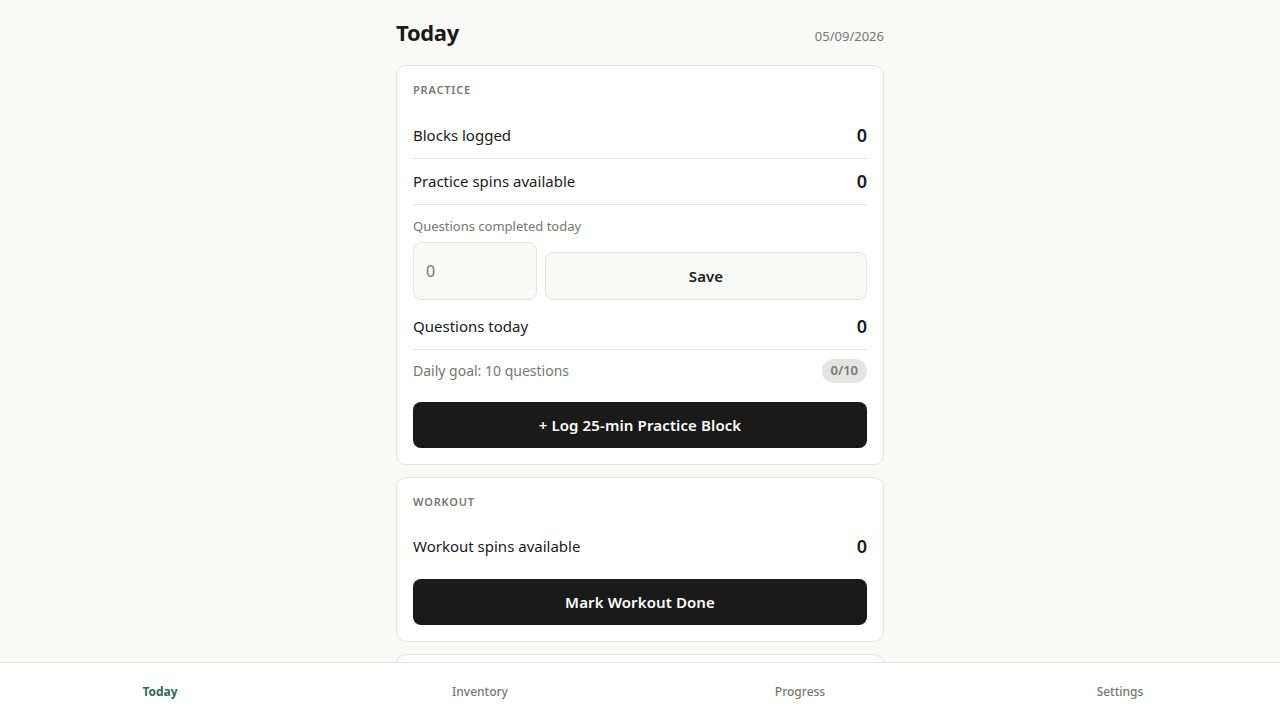
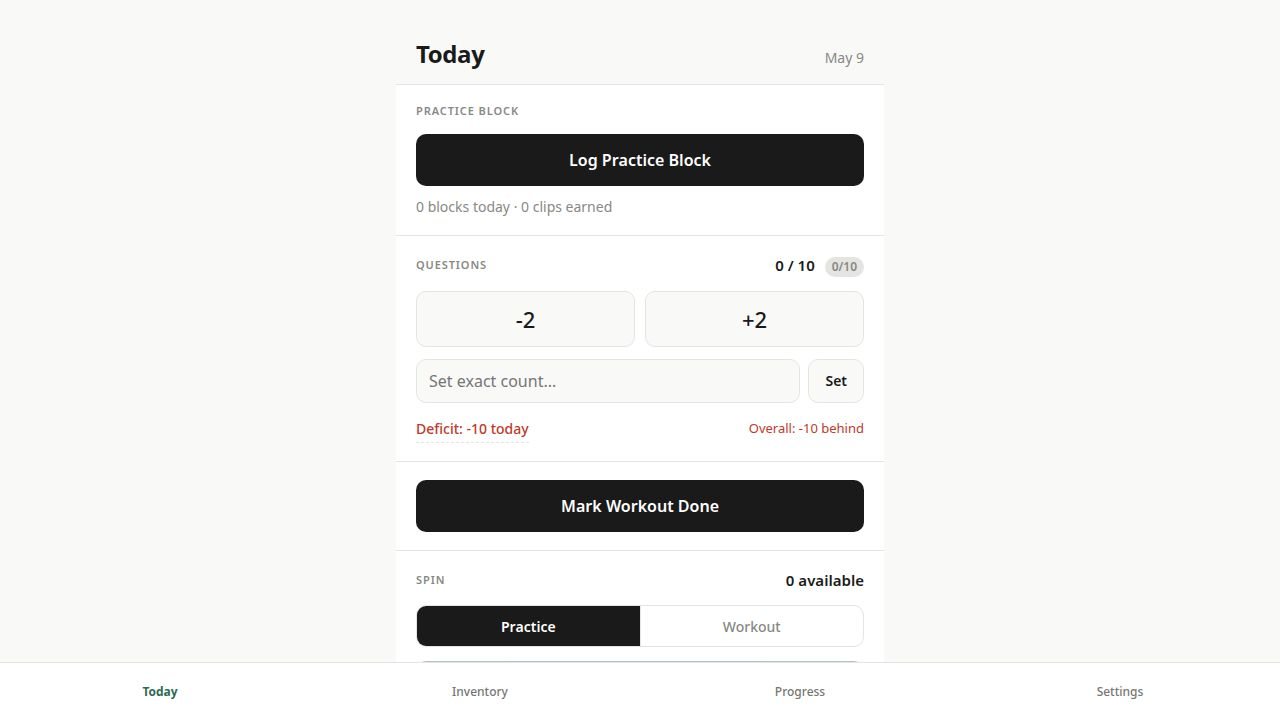
Improve deficit tracking with detailed progress and planning insights
Rewrite `showDeficitDetail` function in `app.js` and update CSS in `index.html` to implement a comprehensive deficit tracking modal with summary cards, rolling pace metrics, catch-up recommendations, and a daily delta chart.

Replit-Commit-Author: Agent
Replit-Commit-Session-Id: 7faa7122-3c13-44b8-ae51-421a0cd3ecc9
Replit-Commit-Checkpoint-Type: full_checkpoint
Replit-Commit-Event-Id: 111deaef-ce2c-4dcf-a37c-7e493fc32b39
Replit-Commit-Screenshot-Url: https://storage.googleapis.com/screenshot-production-us-central1/2513a23a-9fae-4b98-ac75-e07072cf8723/7faa7122-3c13-44b8-ae51-421a0cd3ecc9/ZLnE67l
Replit-Helium-Checkpoint-Created: true

diff --git a/artifacts/habit-wheel/src/app.js b/artifacts/habit-wheel/src/app.js
@@ -540,84 +540,170 @@ function deleteBankedReward(id) {
 
 function showDeficitDetail() {
   const body = document.getElementById('deficit-body');
-  const expected = expectedQuestions();
-  const total = state.totalQuestions;
-  const cd = total - expected;
-  const remaining = Math.max(0, 400 - total);
-  const dn = dayNumber();
-  const daysLeft = Math.max(0, 40 - dn);
-  const needed = daysLeft > 0 ? (remaining / daysLeft).toFixed(1) : '—';
 
-  // Stats grid
-  const cdClass = cd < 0 ? 'neg' : cd > 0 ? 'pos' : '';
-  body.innerHTML = `
-    <div class="deficit-stats-grid">
-      <div class="dstat-box">
-        <div class="dstat-val">${total}</div>
-        <div class="dstat-label">Completed</div>
-      </div>
-      <div class="dstat-box">
-        <div class="dstat-val">${expected}</div>
-        <div class="dstat-label">Expected by today</div>
-      </div>
-      <div class="dstat-box">
-        <div class="dstat-val ${cdClass}">${cd >= 0 ? '+' : ''}${cd}</div>
-        <div class="dstat-label">Cumulative delta</div>
-      </div>
-      <div class="dstat-box">
-        <div class="dstat-val">${remaining}</div>
-        <div class="dstat-label">Remaining</div>
-      </div>
-      <div class="dstat-box">
-        <div class="dstat-val">${daysLeft}</div>
-        <div class="dstat-label">Days left</div>
-      </div>
-      <div class="dstat-box">
-        <div class="dstat-val">${needed}</div>
-        <div class="dstat-label">Needed / day</div>
+  const dn           = dayNumber();
+  const total        = state.totalQuestions;
+  const expected     = expectedQuestions();
+  const cd           = total - expected;
+  const remaining    = Math.max(0, 400 - total);
+  const daysFromTmrw = Math.max(0, 40 - dn);         // days after today
+  const daysInclToday = Math.max(1, 40 - dn + 1);    // days including today
+  const reqFromTmrw  = daysFromTmrw > 0 ? remaining / daysFromTmrw : null;
+  const cdClass      = cd < 0 ? 'neg' : cd > 0 ? 'pos' : '';
+  const cdStr        = (cd > 0 ? '+' : '') + cd;
+  const needStr      = reqFromTmrw !== null ? reqFromTmrw.toFixed(1) : '—';
+
+  // ── Rolling-average helper
+  function rollingAvg(n) {
+    const days = state.dailyHistory.slice(-n);
+    if (!days.length) return null;
+    return days.reduce((a, d) => a + d.questions, 0) / days.length;
+  }
+  const avg3 = rollingAvg(3);
+  const avg7 = rollingAvg(7);
+
+  function paceLabel(avg) {
+    if (avg === null) return '';
+    if (avg >= 10)  return 'On pace';
+    if (avg >=  8)  return 'Slightly behind';
+    return 'Behind pace';
+  }
+
+  // ── 1. Summary cards
+  let html = `
+    <div class="dc-section">
+      <div class="dc-label">Summary</div>
+      <div class="dc-grid">
+        <div class="dc-card">
+          <div class="dc-card-val">${total}</div>
+          <div class="dc-card-key">Completed</div>
+        </div>
+        <div class="dc-card">
+          <div class="dc-card-val">${expected}</div>
+          <div class="dc-card-key">Expected by today</div>
+        </div>
+        <div class="dc-card">
+          <div class="dc-card-val ${cdClass}">${cdStr}</div>
+          <div class="dc-card-key">Net delta</div>
+        </div>
+        <div class="dc-card">
+          <div class="dc-card-val">${remaining}</div>
+          <div class="dc-card-key">Remaining</div>
+        </div>
+        <div class="dc-card">
+          <div class="dc-card-val">${daysFromTmrw}</div>
+          <div class="dc-card-key">Days left</div>
+        </div>
+        <div class="dc-card">
+          <div class="dc-card-val">${needStr}</div>
+          <div class="dc-card-key">Needed / day</div>
+        </div>
       </div>
     </div>
   `;
 
-  // Build chart from dailyHistory + today
+  // ── 2. Rolling pace
+  const last3Counts = state.dailyHistory.slice(-3).map(d => d.questions).join(', ');
+  html += `
+    <div class="dc-section">
+      <div class="dc-label">Rolling pace</div>
+      <div class="dc-pace-row">
+        <div class="dc-pace-left">
+          <div>Last 3 days</div>
+          ${avg3 !== null && last3Counts ? `<div class="dc-pace-sub">${last3Counts} questions</div>` : ''}
+        </div>
+        <div class="dc-pace-val">${avg3 !== null ? avg3.toFixed(1) + '/day' : '—'}</div>
+      </div>
+      <div class="dc-pace-row">
+        <div class="dc-pace-left">
+          <div>Last 7 days</div>
+          ${avg7 !== null ? `<div class="dc-pace-sub">${paceLabel(avg7)}</div>` : ''}
+        </div>
+        <div class="dc-pace-val">${avg7 !== null ? avg7.toFixed(1) + '/day' : '—'}</div>
+      </div>
+      <div class="dc-pace-row">
+        <div class="dc-pace-left">Today so far</div>
+        <div class="dc-pace-val">${state.questionsToday} questions</div>
+      </div>
+    </div>
+  `;
+
+  // ── 3. Recommendation
+  let recHtml = '';
+  if (remaining === 0) {
+    recHtml = `<div class="dc-rec good">You've completed all 400 questions. Goal achieved!</div>`;
+  } else if (daysFromTmrw === 0) {
+    recHtml = `<div class="dc-rec">Last day — ${remaining} question${remaining !== 1 ? 's' : ''} left to reach 400.</div>`;
+  } else if (cd >= 0) {
+    const minPossible = (remaining / daysInclToday).toFixed(1);
+    recHtml = `
+      <div class="dc-rec good">
+        You're ahead by <strong>${cd} question${cd !== 1 ? 's' : ''}</strong>.
+        You could do as few as <strong>${minPossible}/day</strong> (including today) and still finish on time.
+      </div>
+    `;
+  } else {
+    if (reqFromTmrw !== null && reqFromTmrw > 16) {
+      recHtml = `
+        <div class="dc-rec warn">
+          To finish on time you'd need <strong>${needStr} questions/day</strong> from tomorrow — that pace is high.
+          Consider adding a catch-up day or extending your deadline by a few days.
+        </div>
+      `;
+    } else {
+      recHtml = `
+        <div class="dc-rec">
+          To finish on time, average <strong>${needStr} questions/day</strong> from tomorrow onward.
+        </div>
+      `;
+    }
+  }
+  html += `
+    <div class="dc-section">
+      <div class="dc-label">Recommendation</div>
+      ${recHtml}
+    </div>
+  `;
+
+  // ── 4. Daily chart (last 20 days including today)
   const allDays = [
     ...state.dailyHistory,
     { date: todayStr(), questions: state.questionsToday },
-  ].slice(-20); // last 20 days
+  ].slice(-20);
 
-  if (allDays.length === 0) {
-    body.innerHTML += `<p class="chart-empty">No history yet. Come back after a few days.</p>`;
+  html += `<div class="dc-section"><div class="dc-label">Daily delta — goal 10/day</div>`;
+
+  if (!allDays.length) {
+    html += `<p class="dc-chart-empty">No data yet. Check back after logging a few days.</p>`;
   } else {
     const deltas = allDays.map(d => ({ date: d.date, delta: d.questions - 10 }));
     const maxAbs = Math.max(1, ...deltas.map(d => Math.abs(d.delta)));
 
-    let chartHtml = `<div class="chart-section-label">Daily question delta (goal: 10/day)</div>`;
     for (const { date, delta } of deltas) {
-      const pct = Math.min(48, (Math.abs(delta) / maxAbs) * 48);
-      const valClass = delta < 0 ? 'neg' : delta > 0 ? 'pos' : 'zero';
-      const valStr = delta === 0 ? '0' : delta > 0 ? `+${delta}` : `${delta}`;
+      const pct     = Math.min(48, (Math.abs(delta) / maxAbs) * 48);
+      const vcls    = delta > 0 ? 'pos' : delta < 0 ? 'neg' : 'zero';
+      const valStr  = delta > 0 ? `+${delta}` : `${delta}`;
+      const barHtml = delta > 0
+        ? `<div class="dc-chart-bar dc-chart-pos" style="width:${pct}%"></div>`
+        : delta < 0
+          ? `<div class="dc-chart-bar dc-chart-neg" style="width:${pct}%"></div>`
+          : '';
 
-      let barHtml = '';
-      if (delta > 0) {
-        barHtml = `<div class="chart-bar chart-bar-pos" style="width:${pct}%"></div>`;
-      } else if (delta < 0) {
-        barHtml = `<div class="chart-bar chart-bar-neg" style="width:${pct}%"></div>`;
-      }
-
-      chartHtml += `
-        <div class="chart-row">
-          <span class="chart-date">${fmtDate(date)}</span>
-          <div class="chart-axis-wrap">
-            <div class="chart-center"></div>
+      html += `
+        <div class="dc-chart-row">
+          <span class="dc-chart-date">${fmtDate(date)}</span>
+          <div class="dc-chart-wrap">
+            <div class="dc-chart-axis"></div>
             ${barHtml}
           </div>
-          <span class="chart-val ${valClass}">${valStr}</span>
+          <span class="dc-chart-val ${vcls}">${valStr}</span>
         </div>
       `;
     }
-    body.innerHTML += chartHtml;
   }
 
+  html += `</div>`;
+  body.innerHTML = html;
   document.getElementById('deficit-overlay').classList.remove('hidden');
 }
 

diff --git a/artifacts/habit-wheel/index.html b/artifacts/habit-wheel/index.html
@@ -466,48 +466,69 @@
     .modal-actions { display: flex; gap: 8px; }
     .modal-actions .action-btn { flex: 1; }
 
-    /* DEFICIT CHART PANEL */
-    .deficit-stats-grid {
-      display: grid;
-      grid-template-columns: 1fr 1fr 1fr;
-      gap: 8px;
-      margin-bottom: 20px;
-    }
-    .dstat-box {
-      background: var(--bg);
-      border-radius: 8px;
-      padding: 10px 12px;
-    }
-    .dstat-val { font-size: 17px; font-weight: 700; color: var(--text); }
-    .dstat-val.neg { color: var(--danger); }
-    .dstat-val.pos { color: var(--accent); }
-    .dstat-label { font-size: 11px; color: var(--muted); margin-top: 2px; }
-
-    .chart-section-label {
+    /* DEFICIT / TRACKING MODAL */
+    .dc-section { margin-bottom: 22px; }
+    .dc-section:last-child { margin-bottom: 0; }
+    .dc-label {
       font-size: 11px;
       font-weight: 600;
       text-transform: uppercase;
       letter-spacing: 0.8px;
       color: var(--muted);
-      margin-bottom: 12px;
+      margin-bottom: 10px;
     }
-    .chart-row {
+    .dc-grid {
+      display: grid;
+      grid-template-columns: 1fr 1fr 1fr;
+      gap: 7px;
+    }
+    .dc-card {
+      background: var(--bg);
+      border-radius: 8px;
+      padding: 10px 11px;
+    }
+    .dc-card-val { font-size: 17px; font-weight: 700; color: var(--text); line-height: 1.1; }
+    .dc-card-val.neg { color: var(--danger); }
+    .dc-card-val.pos { color: var(--accent); }
+    .dc-card-key { font-size: 10px; color: var(--muted); margin-top: 3px; line-height: 1.3; }
+
+    .dc-pace-row {
       display: flex;
+      justify-content: space-between;
       align-items: center;
-      gap: 8px;
-      margin-bottom: 6px;
+      padding: 10px 0;
+      border-bottom: 1px solid var(--border);
+      font-size: 14px;
+      gap: 12px;
     }
-    .chart-date { font-size: 11px; color: var(--muted); width: 40px; flex-shrink: 0; text-align: right; }
-    .chart-axis-wrap { flex: 1; height: 18px; position: relative; }
-    .chart-center { position: absolute; left: 50%; top: 0; bottom: 0; width: 1px; background: var(--border); }
-    .chart-bar { position: absolute; top: 3px; bottom: 3px; border-radius: 2px; min-width: 2px; }
-    .chart-bar-pos { left: calc(50% + 1px); background: var(--accent); }
-    .chart-bar-neg { right: 50%; background: var(--danger); }
-    .chart-val { font-size: 11px; font-weight: 600; width: 28px; flex-shrink: 0; }
-    .chart-val.pos { color: var(--accent); }
-    .chart-val.neg { color: var(--danger); }
-    .chart-val.zero { color: var(--muted); }
-    .chart-empty { font-size: 14px; color: var(--muted); padding: 8px 0; }
+    .dc-pace-row:last-child { border-bottom: none; }
+    .dc-pace-left { flex: 1; }
+    .dc-pace-val { font-weight: 700; font-size: 15px; flex-shrink: 0; }
+    .dc-pace-sub { font-size: 12px; color: var(--muted); margin-top: 1px; }
+
+    .dc-rec {
+      background: var(--bg);
+      border-radius: 8px;
+      padding: 14px 16px;
+      font-size: 14px;
+      line-height: 1.65;
+      color: var(--text);
+    }
+    .dc-rec.warn { background: #fff8f0; border-left: 3px solid #d97706; }
+    .dc-rec.good { background: #f0faf4; }
+
+    .dc-chart-row { display: flex; align-items: center; gap: 8px; margin-bottom: 5px; }
+    .dc-chart-date { font-size: 11px; color: var(--muted); width: 40px; flex-shrink: 0; text-align: right; }
+    .dc-chart-wrap { flex: 1; height: 16px; position: relative; }
+    .dc-chart-axis { position: absolute; left: 50%; top: 0; bottom: 0; width: 1px; background: var(--border); }
+    .dc-chart-bar { position: absolute; top: 2px; bottom: 2px; border-radius: 2px; min-width: 2px; }
+    .dc-chart-pos { left: calc(50% + 1px); background: #2d4a3e; }
+    .dc-chart-neg { right: 50%; background: #c0c0bc; }
+    .dc-chart-val { font-size: 11px; font-weight: 600; width: 28px; flex-shrink: 0; }
+    .dc-chart-val.pos { color: var(--text); }
+    .dc-chart-val.neg { color: var(--muted); }
+    .dc-chart-val.zero { color: var(--muted); }
+    .dc-chart-empty { font-size: 14px; color: var(--muted); padding: 6px 0; }
   </style>
 </head>
 <body>